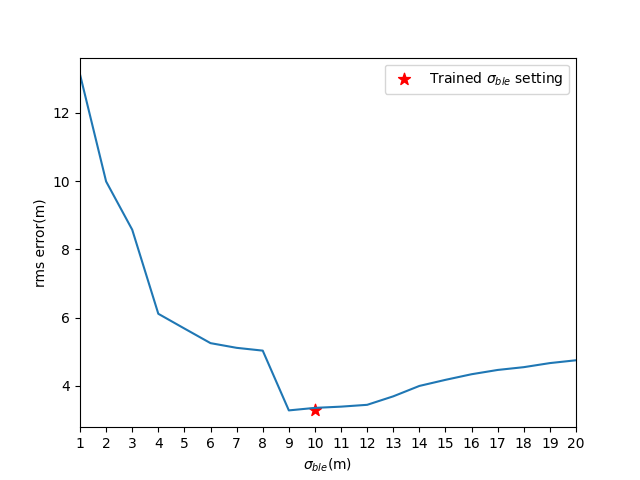
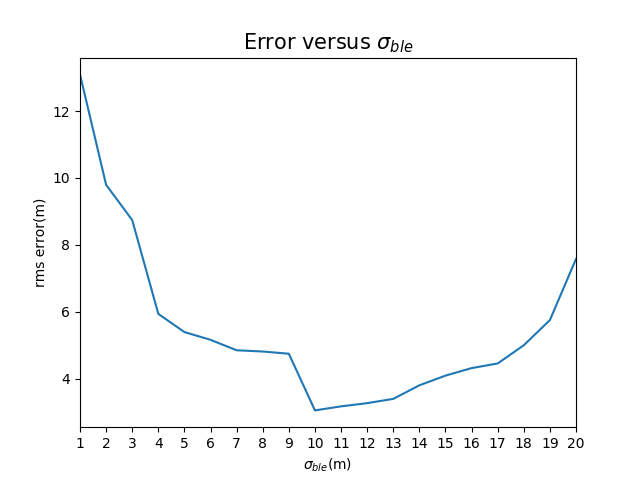
more formatted

diff --git a/bug_version_car_park.py b/bug_version_car_park.py
@@ -11,9 +11,8 @@ import beaconTable
 exception = 0
 minDis  = 1
 wifi_sigma2 = 90000
-ble_sigma = 13.33* 9
-orientation_sigma2 = 0.36
-ble_bias = 3*13.33
+ble_sigma = 133.3
+orientation_sigma = 0.36
 def bias_gauss(error, bias, sigma):
     if error > bias:    
         g = 1000 * math.e ** -((error-bias) ** 2 / ( sigma**2 * 2))  
@@ -25,7 +24,7 @@ def huber_gauss(error, sigma):
         Loss =  1/2 * error ** 2 
     else:
         Loss =   sigma*(abs(error)- 1/2*sigma)
-    g = 10 * math.e ** (-Loss/(sigma*sigma))  
+    g = 1000 * math.e ** (-Loss/(sigma*sigma))  
     return g
 
 def w_gauss(error, sigma2):
@@ -43,9 +42,9 @@ def  turning(insBuffer):
         if gyro:
             gyro_accumulate += gyro[1]
 
-    if gyro_accumulate >=  4:
+    if gyro_accumulate >=  3:
         return -1
-    elif gyro_accumulate <= -4:
+    elif gyro_accumulate <= -3:
         return 1
     else:
         return 0
@@ -117,9 +116,9 @@ def transition2(weight_dict, neighbor_dict,yaw,samplePeriod,speed,grid_dis):
             #print(error,w_gauss(error,orientation_sigma2 ) )
 
             if error > 0:
-                new_weight_dict[str(neighbor)] += weight_dict[pos]*huber_gauss(error,orientation_sigma2 )  # belief * transition
+                new_weight_dict[str(neighbor)] += weight_dict[pos]*huber_gauss(error,orientation_sigma )  # belief * transition
             else:  
-                new_weight_dict[str(neighbor)] += weight_dict[pos]*huber_gauss(error_min,orientation_sigma2 )*(1-samplePeriod*speed/grid_dis)*0.2
+                new_weight_dict[str(neighbor)] += weight_dict[pos]*huber_gauss(error_min,orientation_sigma )*(1-samplePeriod*speed/grid_dis)*0.2
             #print(new_weight_dict)
             #ti.sleep(0.1)
     return new_weight_dict
@@ -163,10 +162,10 @@ def transition3(weight_dict, neighbor_dict,yaw,samplePeriod,speed,grid_dis):
             error = min([error, 360-error]) * math.pi /180 
             if error < error_min:
                 error_min = error
-            #print(error,w_gauss(error,orientation_sigma2 ) )
+
 
             if error != 0:
-                new_neighbor_dict_buff[str(neighbor)]  = huber_gauss(error,orientation_sigma2 )  # belief * transition
+                new_neighbor_dict_buff[str(neighbor)]  = huber_gauss(error,orientation_sigma )  # belief * transition
             else: 
                 new_neighbor_dict_buff[str(neighbor)] =  0
         #print(new_neighbor_dict_buff)
@@ -209,9 +208,8 @@ def transition(weight_dict, neighbor_dict,yaw,INS_samples):
 
             error = abs(yaw - theta)
             error = min([error, 360-error]) * math.pi /180 
-            #print(error,w_gauss(error,orientation_sigma2 ) )
             if error > 0:
-                new_weight_dict[str(neighbor)] += weight_dict[pos]*w_gauss(error,orientation_sigma2 )   # belief * transition
+                new_weight_dict[str(neighbor)] += weight_dict[pos]*w_gauss(error,orientation_sigma )   # belief * transition
             else:  
                 new_weight_dict[str(neighbor)] += weight_dict[pos]*INS_samples*0.01
             #print(new_weight_dict)
@@ -239,7 +237,8 @@ def update_gyroscope(turn, weight_dict, neighbor_dict):
         candidatePos = json.loads(pos)
         if isTurnPoint(candidatePos, neighbor_dict[pos]):
             weight_dict[pos] *= 5
-import matplotlib as plt
+        return weight_dict
+
 
 
 def ble_localization(bleTable):
@@ -323,7 +322,7 @@ def main(INS_samples = 20,speed = 2.5,point_dis = 1):
     gtFile = open("movements.dat")
     
     lines = gtFile.readlines()
-    print(lines)
+    #print(lines)
     rawPosTable = [] 
     for line in lines:
         pos = {}
@@ -403,13 +402,14 @@ def main(INS_samples = 20,speed = 2.5,point_dis = 1):
         # ------------- Turning  detection and update-----------#
         turn = turning(insBuffer)
         
-        if turn:
-            print("turn")
+        #if turn:
+            #print("turn")
         #else:
             #print("not turn")
         
         weight_dict = update_gyroscope(turn, weight_dict, neighbor_dict)
         weight_dict = normalization(weight_dict)
+  
         # -----------WiFi update----------------#
         ibeacon_pos = None
         if beaconBuffer:
@@ -509,22 +509,23 @@ def main(INS_samples = 20,speed = 2.5,point_dis = 1):
     #plt.show()
 
 def INS_Error_Draw():
-    speedList = [2+i*0.3 for i in range(21)]
+    #speedList = [2+i*0.3 for i in range(21)]
     #speedX = 4
-    global orientation_sigma2 
+    global orientation_sigma
     bestPerformanceError = []
     samplingList = []
-    iBeaconVars = [i*13.33 +13.33  for i in range(20)]
-    iBeaconVarsm = [i +1 for i in range(20)]
+    #iBeaconVars = [i*13.33 +13.33  for i in range(20)]
+    #iBeaconVarsm = [i +1 for i in range(20)]
     insError = [0.1+0.05*i for i in range(19)]
     insErrorDegree = [5.729+57.29*0.05*i for i in range(19)]
     for insE in insError:
-        orientation_sigma2 = insE
+        orientation_sigma = insE
+        
         orientation,hmmErrorList,iBeaconErrorList = main(speed=4,INS_samples=20,point_dis=1)
         rms_error = rms(hmmErrorList)
-        print("vars: " + str(insE) + "; error:"+ str(rms_error))
+        #print("vars: " + str(insE) + "; error:"+ str(rms_error))
         bestPerformanceError.append(rms_error)
-    orientation_sigma2 = 0.36
+    orientation_sigma = 0.36
     plt.xlim(6,57)
     tick =   [int(6+3*i)for i in range(18)]
     plt.xticks(tick)
@@ -546,7 +547,7 @@ def iBeacon_Error_Draw():
         orientation,hmmErrorList,iBeaconErrorList = main(speed=4,INS_samples=20,point_dis=1)
         errorList.append(rms(hmmErrorList))
         rms_error = rms(hmmErrorList)
-        print("vars: " + str(vars) + "; error:"+ str(rms_error))
+        #print("vars: " + str(vars) + "; error:"+ str(rms_error))
     plt.xlim(1,20)
     tick = [int(i+1)  for i in range(0,20)]
     plt.xticks(tick)
@@ -557,7 +558,58 @@ def iBeacon_Error_Draw():
     plt.plot(tick,errorList)   
     plt.savefig('BLE error.png')
     plt.show()
+
+def cdf_draw():
+    global ble_sigma,orientation_sigma
+    import particle_filter  as pf 
+    particleErrorList,time = pf.pf_process(2000)
+    orientation,hmmErrorList,iBeaconErrorList = main(speed=4,INS_samples=20,point_dis=1)
+
+    hmm_time_stamp  = [i*0.2 for i in range(len(hmmErrorList))]
+    hmm_error_sorted = sorted(hmmErrorList)
+    hmm_error_cdf = []
+    for i in range(len(hmm_error_sorted)):
+        hmm_error_cdf.append(i / len(hmmErrorList))
+
+    pf_time_stamp  = [i*0.2 for i in range(len(particleErrorList))]
+    pf_error_sorted = sorted(particleErrorList)
+    pf_error_cdf = []
+    for i in range(len(pf_error_sorted)):
+        pf_error_cdf.append(i / len(pf_error_sorted))
+
+    iBeacon_time_stamp = [i*1 for i in range(len(iBeaconErrorList))]        
+    iBeacon_error_cdf = []
+    for i in range(len(iBeaconErrorList)):
+        iBeacon_error_cdf.append(i/len(iBeaconErrorList))
+    iBeacon_error_sorted = sorted(iBeaconErrorList)
+    plt.xlabel("Error(m)")
+    plt.ylabel("CDF")
+    hmm = plt.plot(hmm_error_sorted,hmm_error_cdf,color = 'blue',linestyle='-',linewidth='2',label='FRICH')
+    pf = plt.plot(pf_error_sorted,pf_error_cdf,color = 'red',linestyle='--',linewidth='1.5',label='Particle filter')
+    wcl = plt.plot(iBeacon_error_sorted,iBeacon_error_cdf,color='green',linestyle=':',linewidth='1',label='iBeaconWCL')
+    #plt.legend([hmm, pf, wcl], ['FRICH', 'Particle Filter', 'iBeacon WCL'])
+    plt.legend()
+    plt.show()
+
+def error_with_time_draw():
+    global ble_sigma,orientation_sigma
+    import particle_filter  as pf 
+    particleErrorList,time = pf.pf_process(2000)
+    orientation,hmmErrorList,iBeaconErrorList = main(speed=4,INS_samples=20,point_dis=1)
+    hmm_time_stamp  = [i*0.2 for i in range(len(hmmErrorList))]
+    pf_time_stamp  = [i*0.2 for i in range(len(particleErrorList))]
+    iBeacon_time_stamp = [i*1 for i in range(len(iBeaconErrorList))]
+    plt.xlim((0,35))
+    plt.ylim((0,35))
+    wcl = plt.plot(iBeacon_time_stamp,iBeaconErrorList,color='green',linestyle=':',linewidth='1',label='iBeaconWCL')
+    pf = plt.plot(pf_time_stamp,particleErrorList,color = 'red',linestyle='--',linewidth='1.5',label='Particle filter')
+    hmm = plt.plot(hmm_time_stamp,hmmErrorList,color = 'blue',linestyle='-',linewidth='2',label='FRICH')
+    plt.xlabel("time stamp(s)")
+    plt.ylabel("error(m)")
+    plt.legend()
+    plt.show()
 if __name__ == '__main__':
+    error_with_time_draw()
     INS_Error_Draw()
     iBeacon_Error_Draw()
     '''

diff --git a/car_park_engine.py b/car_park_engine.py
@@ -20,7 +20,7 @@ def huber_gauss(error, sigma):
         Loss =  1/2 * error ** 2 
     else:
         Loss =   sigma*(abs(error)- 1/2*sigma)
-    g = 100 * math.e ** (-Loss/(sigma*sigma))  
+    g = 10 * math.e ** (-Loss/(sigma*sigma))  
     return g
 
 def generateCandidatePoints(map):
@@ -272,32 +272,6 @@ def updateBle(bleTable, weight_dict):
                 ble_weight_dict[pos]+=  ble_weight* likelyhood
     for pos in ble_weight_dict:
         weight_dict[pos]*=ble_weight_dict[pos]
-    return weight_dict
-
-def updateMultiWiFi(wifi, weight_dict):
-    wifi_weight_dict = {}
-    for pos in weight_dict:
-        for wifiSignal in wifi:
-            wifi_pos = [wifiSignal['x'], wifiSignal['y']]
-            candidatePos = json.loads(pos)
-            dis = euclideanDistance(candidatePos, wifi_pos)
-            wifi_weight = w_gauss(dis, wifi_sigma2)
-            if not (pos in wifi_weight_dict.keys()):
-                wifi_weight_dict[pos] = wifi_weight * wifiSignal['likelihood']
-            else:
-                wifi_weight_dict[pos]+= wifi_weight * wifiSignal['likelihood']
-    for pos in weight_dict:
-        weight_dict[pos]*=wifi_weight_dict[pos]
-    return weight_dict
-
-def update_wifi(wifiPos,weight_dict):
-    for pos in weight_dict: 
-        candidatePos = json.loads(pos)
-        dis = euclideanDistance(candidatePos, wifiPos)
-        #print(candidatePos, wifiPos,dis)
-        wifi_weight = w_gauss(dis, wifi_sigma2)
-        #print(wifi_weight)
-        weight_dict[pos] *= wifi_weight
     return weight_dict
 
 def update_acclerometer():

diff --git a/draw.py b/draw.py
@@ -10,11 +10,11 @@ import math
 import turtle
 import random
 
-turtle.tracer(50000, delay=0)
-turtle.register_shape("dot", ((-3,-3), (-3,3), (3,3), (3,-3)))
-turtle.register_shape("tri", ((-3, -2), (0, 3), (3, -2), (0, 0)))
-turtle.speed(0)
-turtle.title("Poor robbie is lost")
+#turtle.tracer(50000, delay=0)
+#turtle.register_shape("dot", ((-3,-3), (-3,3), (3,3), (3,-3)))
+#turtle.register_shape("tri", ((-3, -2), (0, 3), (3, -2), (0, 0)))
+#turtle.speed(0)
+#turtle.title("Poor robbie is lost")
 
 UPDATE_EVERY = 0
 DRAW_EVERY = 2

diff --git a/particle_filter.py b/particle_filter.py
@@ -37,7 +37,7 @@ maze_data = ( ( 2, 0, 1, 0, 0 ),
 import maze_generator as mg
 maze_data = mg.generateMazeData()
 world = Maze(maze_data)
-world.draw()
+#world.draw()
 ROBOT_HAS_COMPASS = True # Does the robot know where north is? If so, it
 # makes orientation a lot easier since it knows which direction it is facing.
 # If not -- and that is really fascinating -- the particle filter can work
